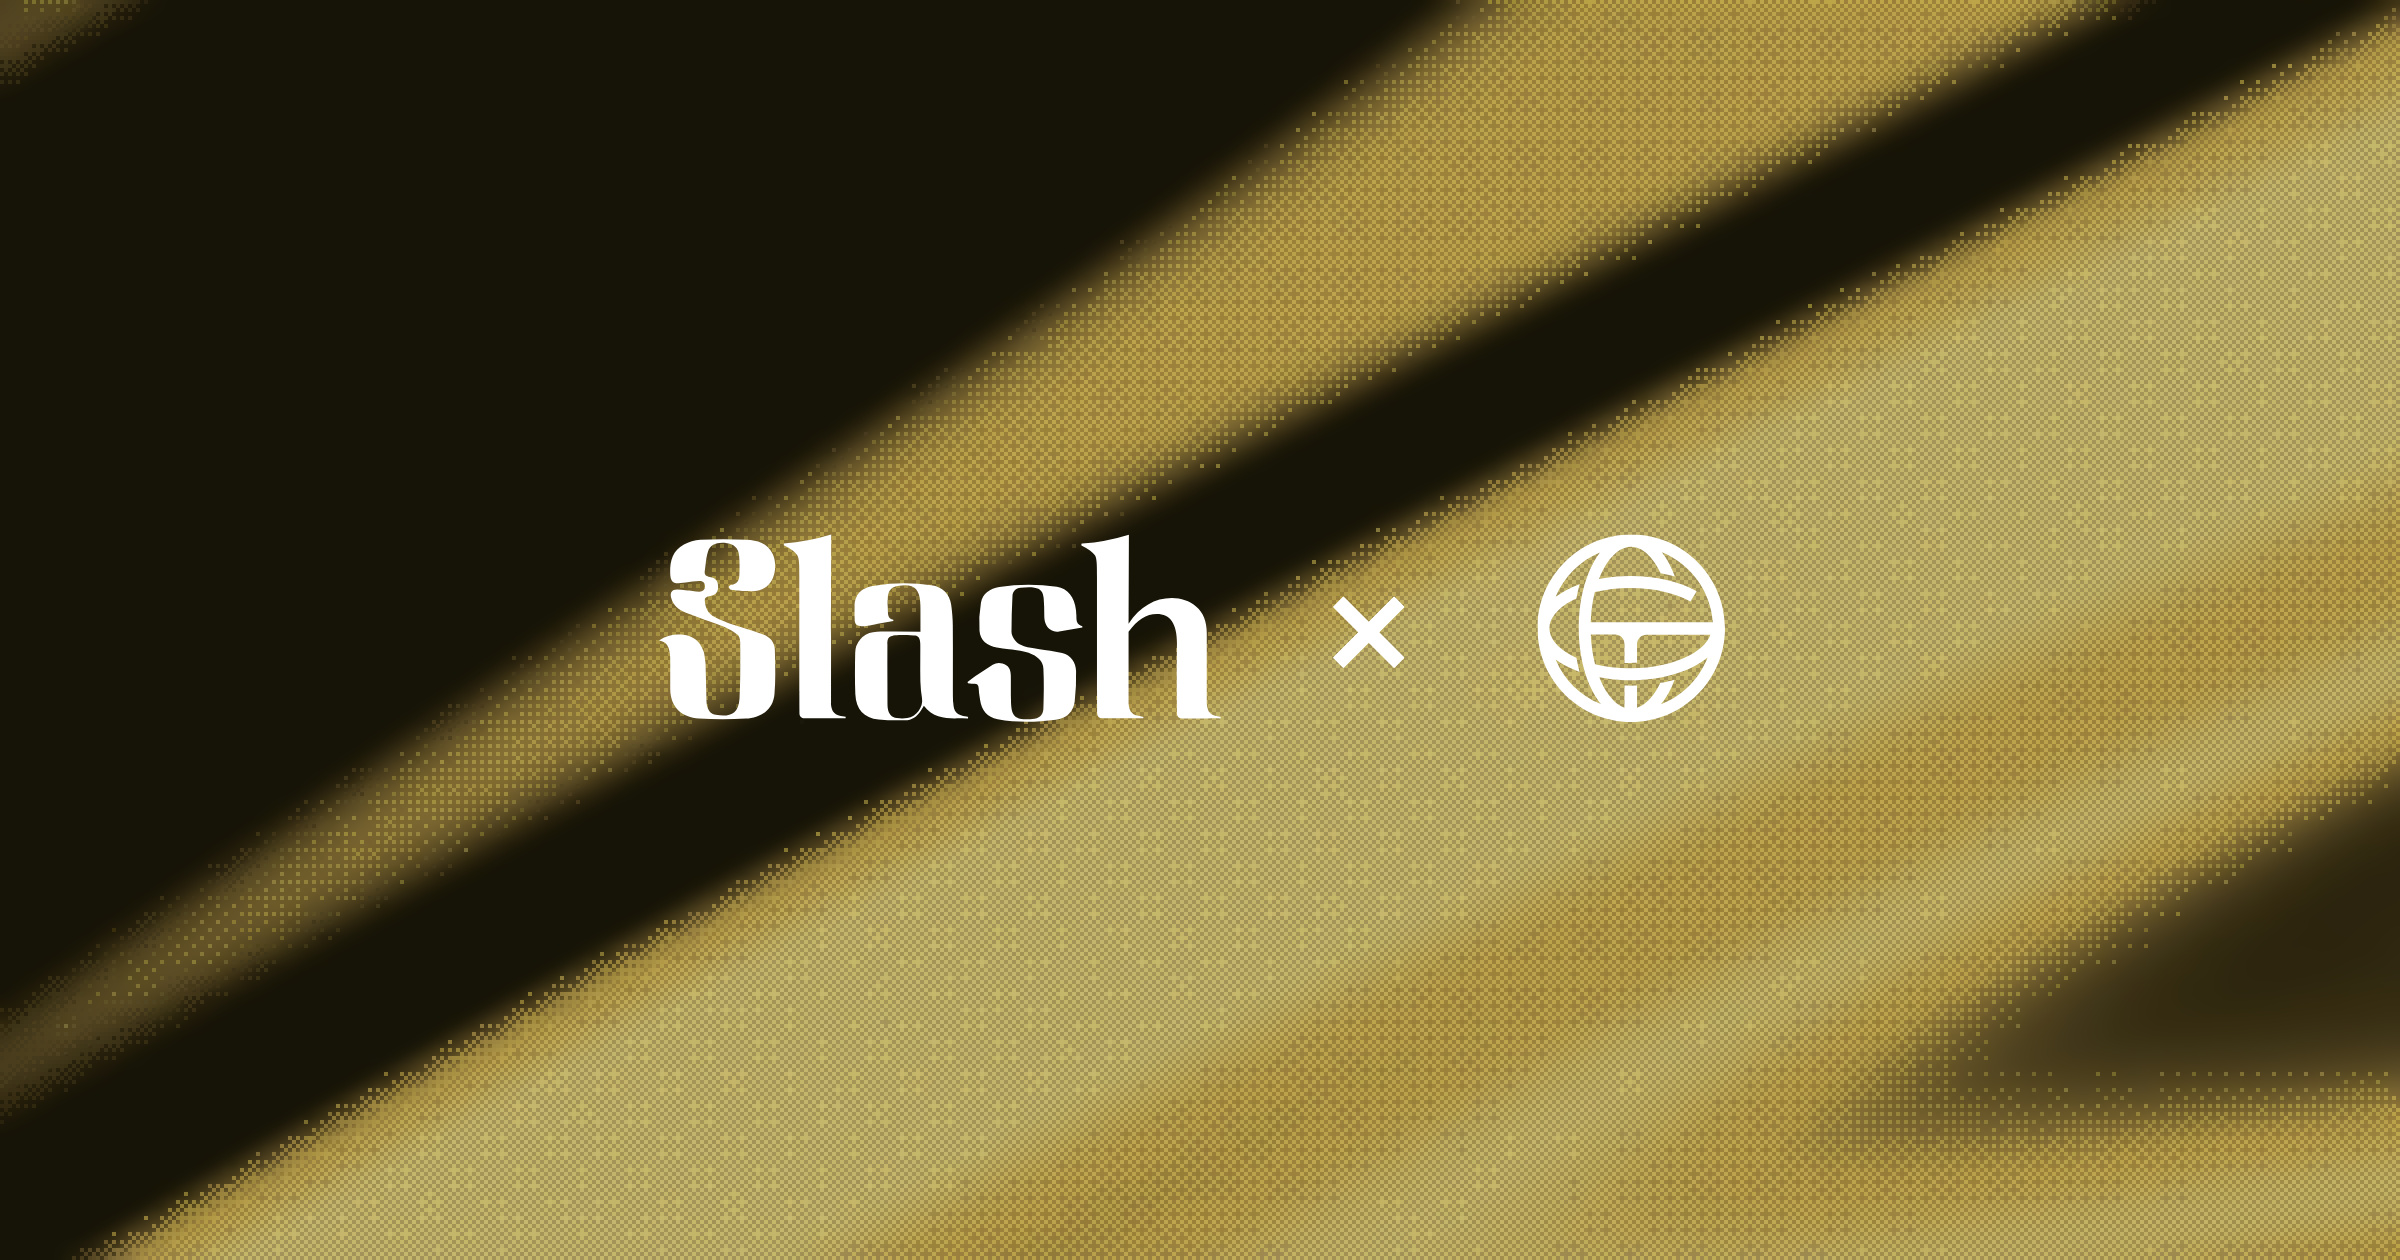
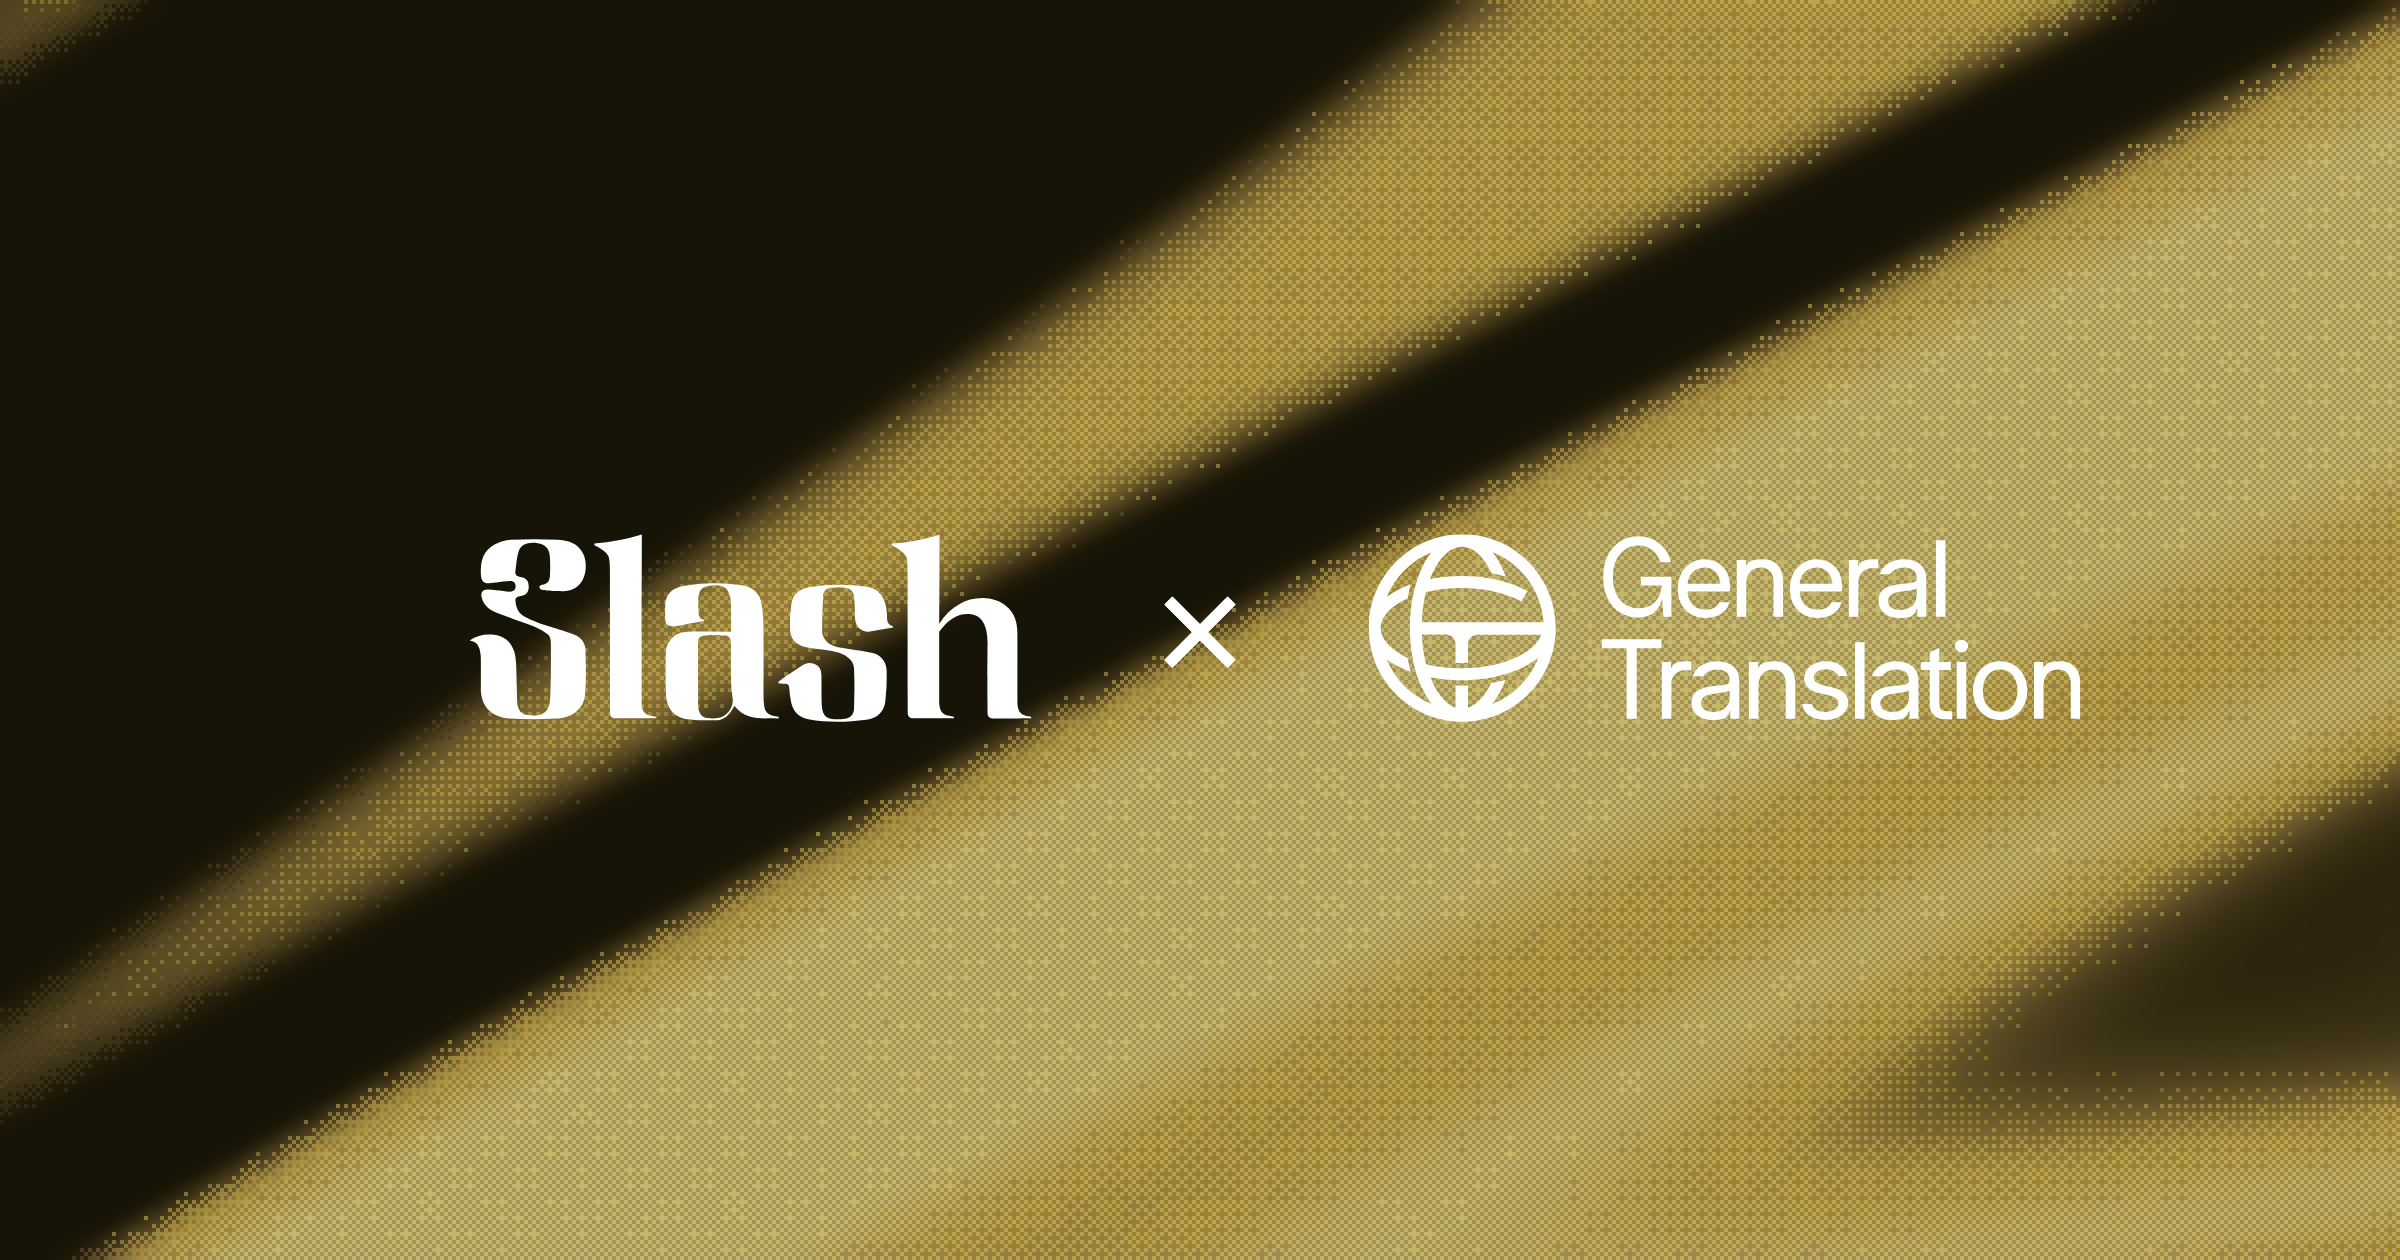
graphics: partner covers put the x on the centre line
Slash reads its wordmark x the General Translation lockup; the Paraglide JS row moves left so its x is centred. Kevin, 11-18.

Changed region(s): [[0.1875, 0.4024, 0.5312, 0.5881], [0.5625, 0.4024, 0.875, 0.5881]]

diff --git a/graphics/build/flat-covers/compose-page.js b/graphics/build/flat-covers/compose-page.js
@@ -100,7 +100,7 @@ window.compose = async function (spec) {
   for (const it of spec.items) {
     if (it.t === 'text') {
       const f = fitText(pub, it.text, it.region, it.T, it.weight);
-      drawText(x, it.text, f, k, f.ink);
+      drawText(x, it.text, f, k, [f.ink[0] + (it.dx || 0), f.ink[1]]);
       log.push({ text: it.text, weight: f.weight, size: +f.size.toFixed(2), spacingEm: +(f.spacing / f.size).toFixed(4), iou: +f.iou.toFixed(3), ink: f.ink });
     } else if (it.t === 'lockup1') {
       // The one-line lockup's rule: the globe 1.9 caps, centred on the cap band, 0.5826 cap of white to the words' ink.
